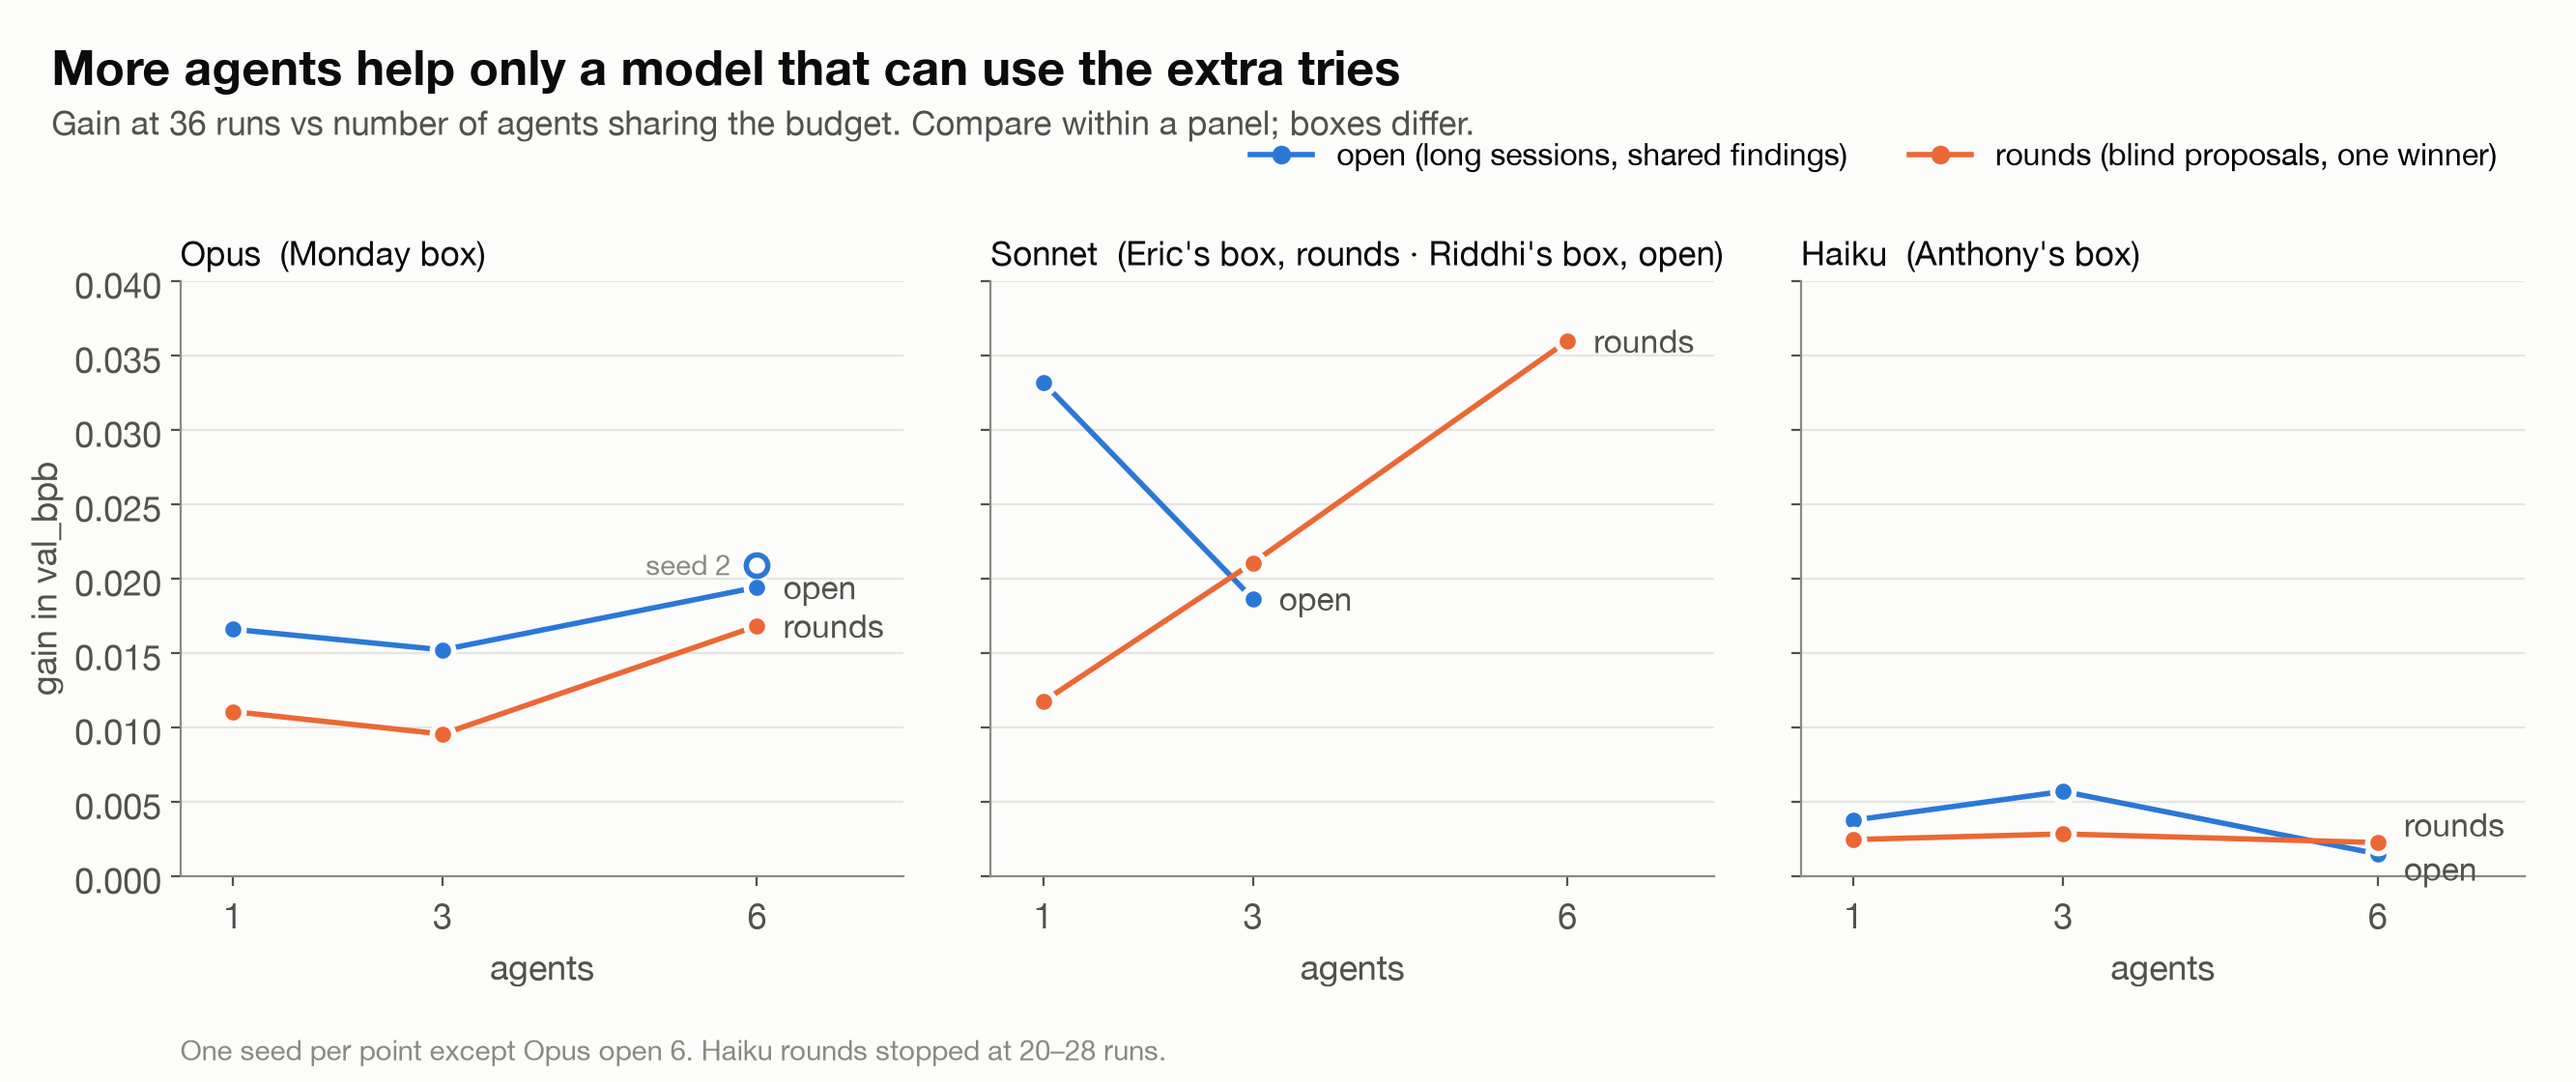
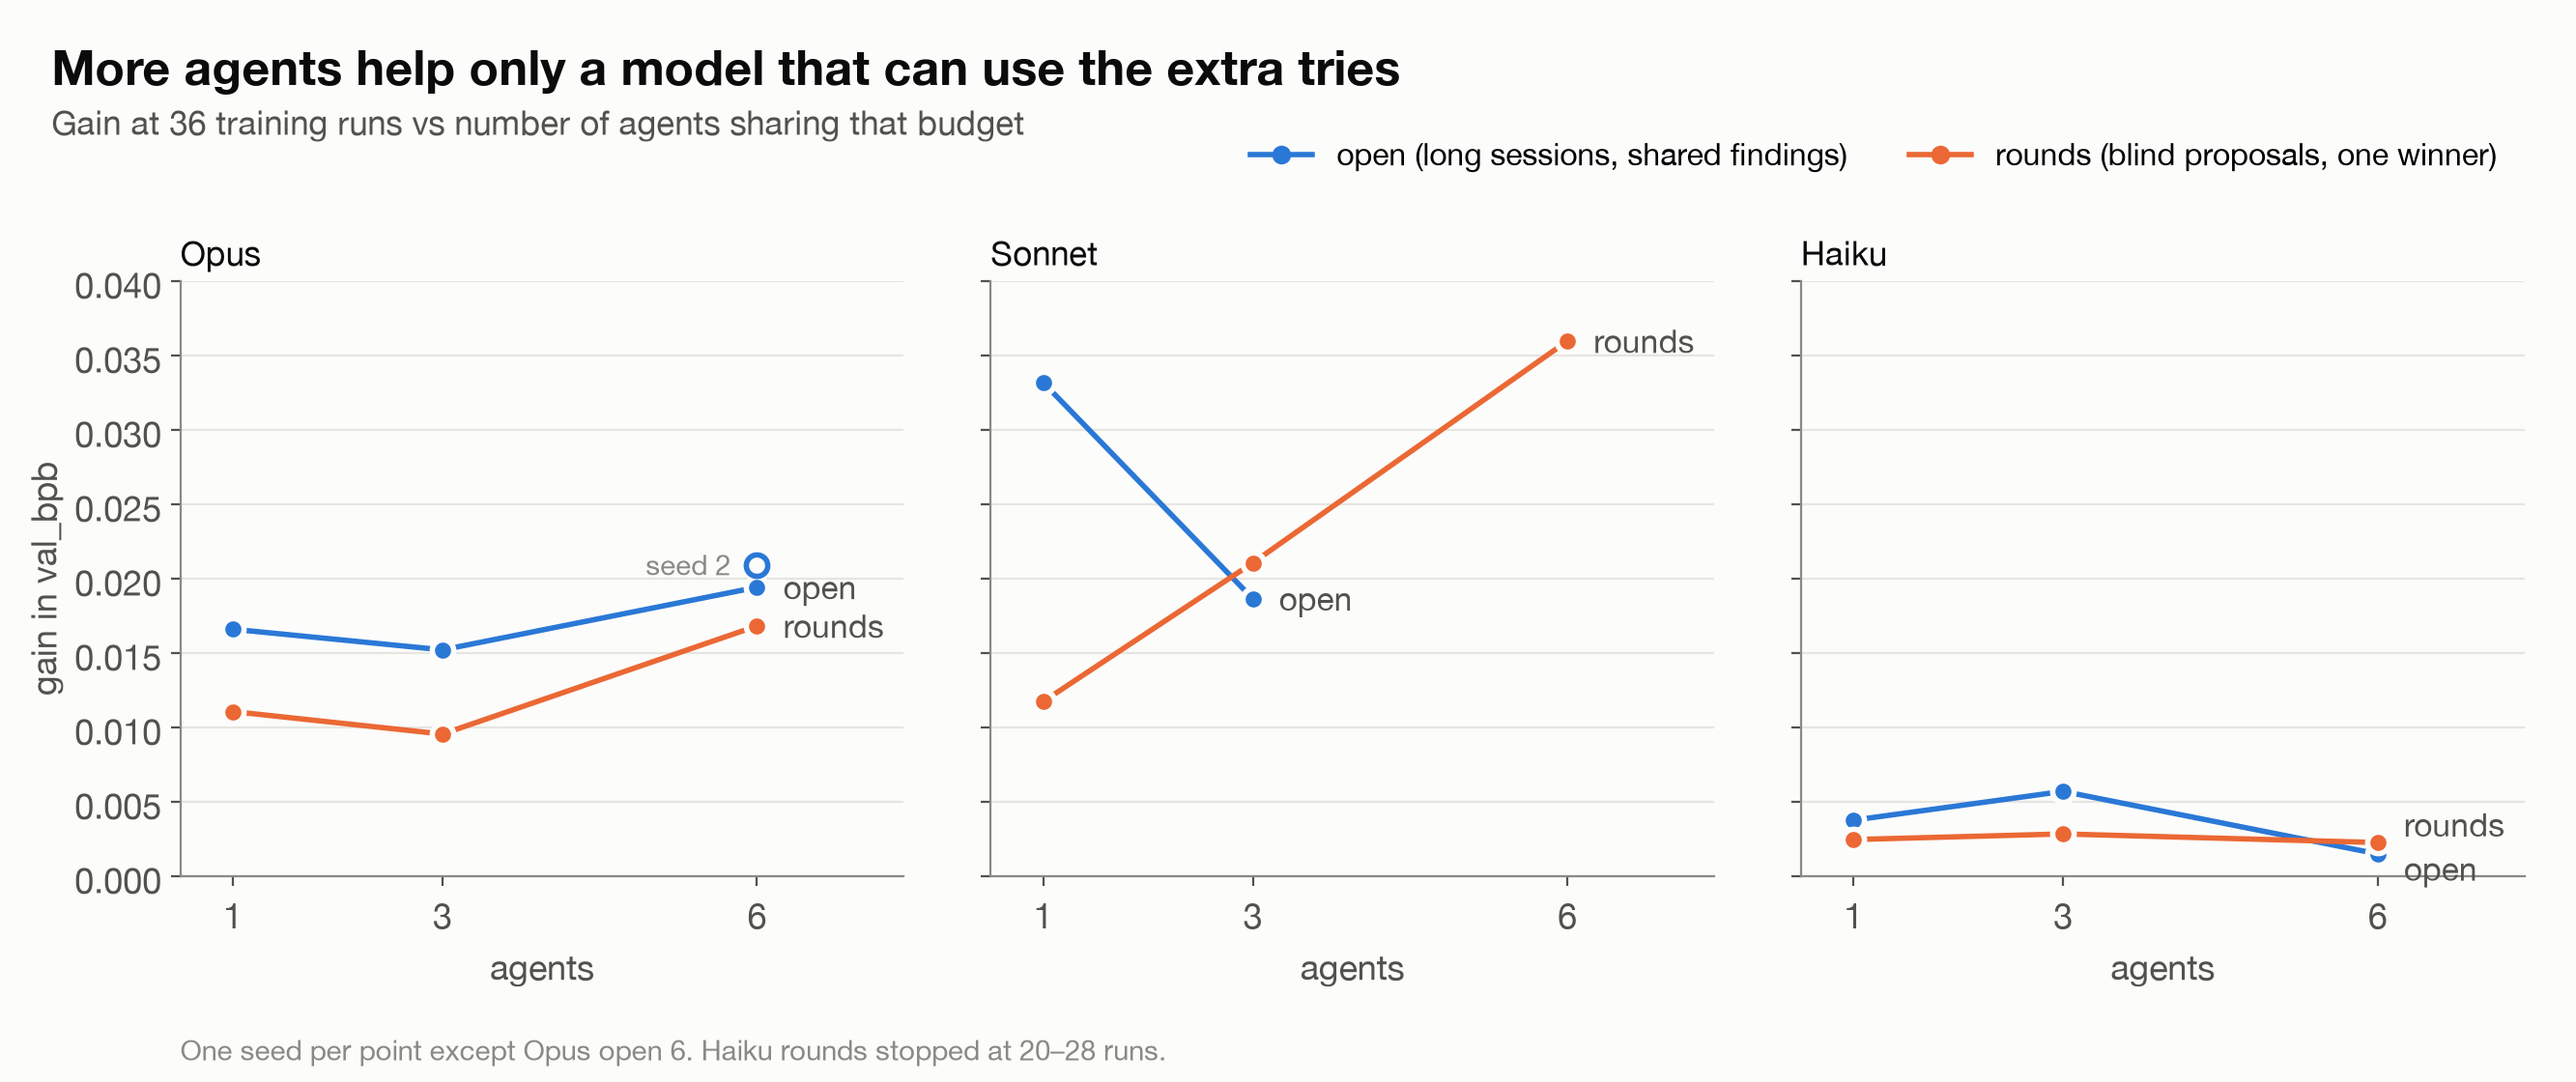
slide figs: drop per-box labels

diff --git a/analysis/slide_figs.py b/analysis/slide_figs.py
@@ -79,7 +79,7 @@ def fig_models():
     fig, ax = plt.subplots(figsize=(10, 5.625))
     fig.subplots_adjust(left=0.1, right=0.97, top=0.78, bottom=0.13)
     title(fig, "Model strength is the biggest lever",
-          "Six isolated agents per model, 36 five-minute runs, same GPU box (pod 4, baseline 1.0123)")
+          "Six isolated agents per model, 36 five-minute training runs each cell")
     gains = [gain(c) for _, c in cells]
     xs = range(len(cells))
     ax.bar(xs, gains, width=0.55, color=BLUE, zorder=2)
@@ -99,17 +99,17 @@ def fig_models():
 # 2. headcount: six beat one for strong models only -----------------------------
 def fig_headcount():
     panels = [
-        ("Opus  (Monday box)", [("open", ["open_opus_1", "open_opus_3", "open_opus_6"]),
+        ("Opus", [("open", ["open_opus_1", "open_opus_3", "open_opus_6"]),
                                 ("rounds", ["opus_1", "opus_3", "opus_6"])]),
-        ("Sonnet  (Eric's box, rounds · Riddhi's box, open)",
+        ("Sonnet",
          [("open", ["open_sonnet_1", "open_sonnet_3", None]), ("rounds", ["sonnet_1", "sonnet_3", "sonnet_6"])]),
-        ("Haiku  (Anthony's box)", [("open", ["open_haiku_1", "open_haiku_3", "open_haiku_6"]),
+        ("Haiku", [("open", ["open_haiku_1", "open_haiku_3", "open_haiku_6"]),
                                     ("rounds", ["haiku_1", "haiku_3", "haiku_6"])]),
     ]
     fig, axes = plt.subplots(1, 3, figsize=(13.33, 5.6), sharey=True)
     fig.subplots_adjust(left=0.07, right=0.98, top=0.74, bottom=0.19, wspace=0.12)
     title(fig, "More agents help only a model that can use the extra tries",
-          "Gain at 36 runs vs number of agents sharing the budget. Compare within a panel; boxes differ.")
+          "Gain at 36 training runs vs number of agents sharing that budget")
     ns = [1, 3, 6]
     for ax, (name, series) in zip(axes, panels):
         for proto, cells in series:
@@ -146,7 +146,7 @@ def fig_workflow():
     fig, axes = plt.subplots(1, 3, figsize=(13.33, 5.6), sharey=True)
     fig.subplots_adjust(left=0.07, right=0.98, top=0.74, bottom=0.19, wspace=0.08)
     title(fig, "Workflow matters as much as headcount",
-          "Opus, Monday box: best val_bpb found so far vs training runs spent (lower is better)")
+          "Opus: best val_bpb found so far vs training runs spent (lower is better)")
     for ax, n in zip(axes, [1, 3, 6]):
         base = None
         for proto, cell, color in [("open", f"open_opus_{n}", OPEN_C), ("rounds", f"opus_{n}", ROUNDS_C)]:
@@ -172,7 +172,7 @@ def fig_sharing():
     fig, ax = plt.subplots(figsize=(10, 5.625))
     fig.subplots_adjust(left=0.1, right=0.76, top=0.78, bottom=0.17)
     title(fig, "Sharing findings bought nothing detectable",
-          "Six Opus agents, 36 runs, pod 4: shared log vs no access to each other at all")
+          "Six Opus agents, 36 runs: shared log vs no access to each other at all")
     for cell, label, color in [("open_opus_6_iso", "shared log", OPEN_C),
                                ("indep_opus_6_iso", "isolated", GREEN)]:
         xs, ys = curve(cell)
@@ -192,7 +192,7 @@ def fig_sharing():
     ax.set_ylim(0.978, 1.016)
     ax.set_xlabel("training runs")
     ax.set_ylabel("best val_bpb so far")
-    fig.text(0.1, 0.02, "Monday's 'independent' cells read the shared score table; these isolated reruns replace them.",
+    fig.text(0.1, 0.02, "Isolated = own clone and own score table per agent; access to peers blocked and audited.",
              fontsize=10.5, color=MUTED)
     save(fig, "fig4_sharing.png")
 
